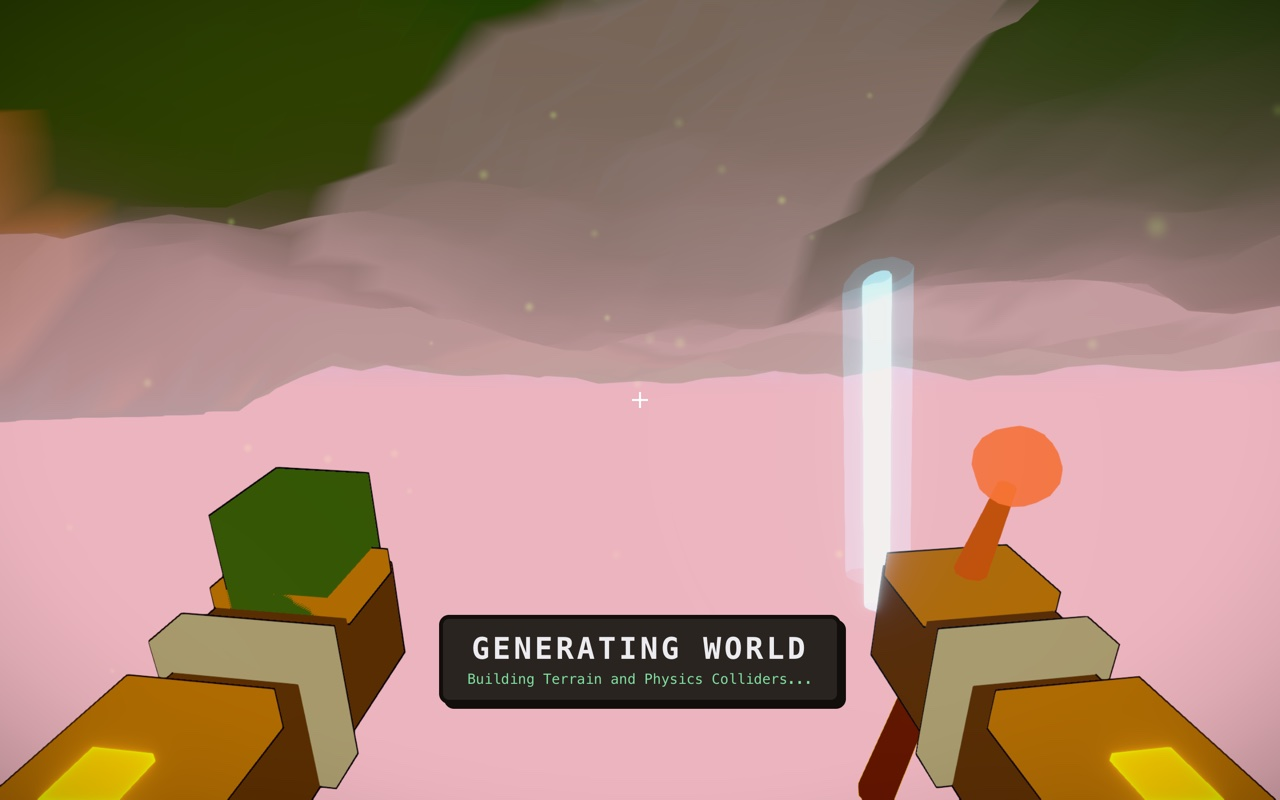
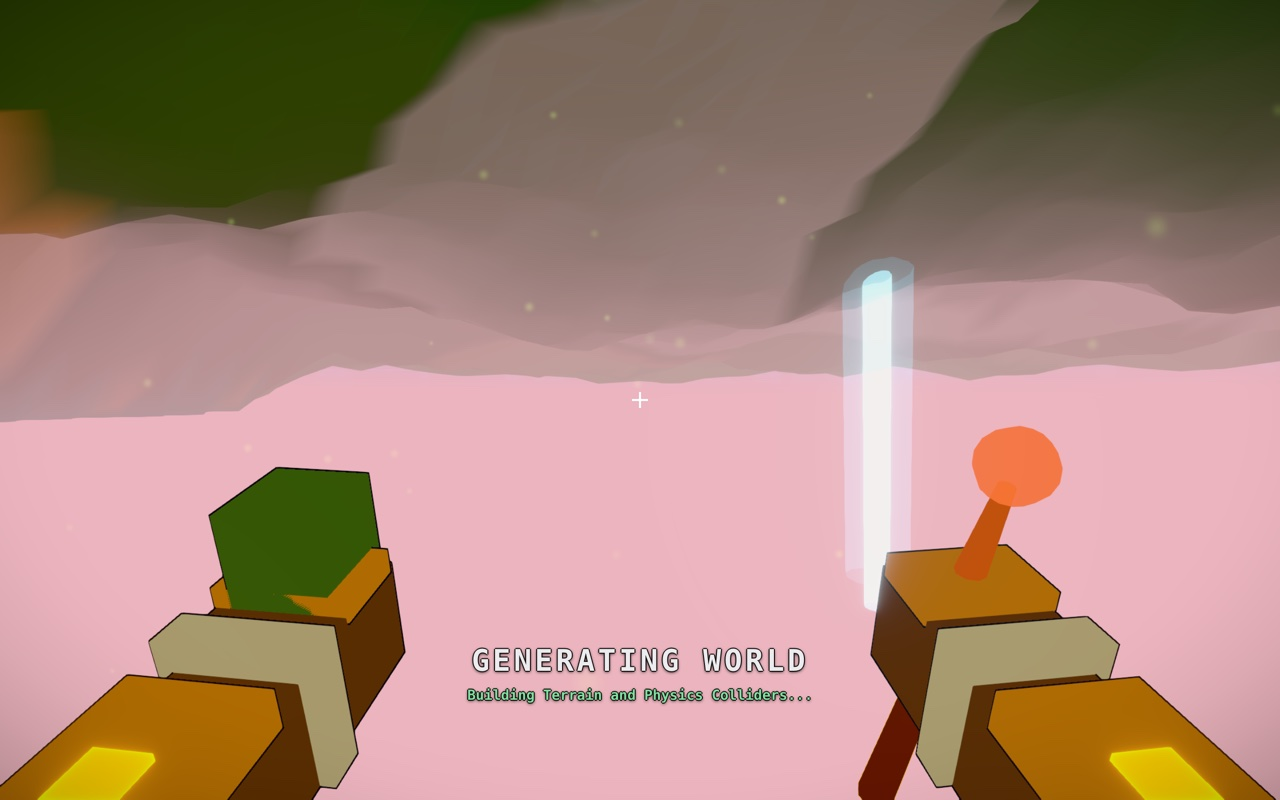
fix(app): the world-building caption takes the ink outline of on-world type instead of a plate
Look change, one line: the caption reads over the unbuilt world's bright fog by the design language's on-world outline
(ui/onWorldText.js, as the coin count and the target's nameplate use), not by a plate over the canvas.

30fef172 put the caption on a small solid plate. On the runner, under the headless shell's pointer-lock flood with the
world held (probe run 41268462804, the reworked start-before-built spec), the plated page drained worse than debfdfc2's
bare caption: the browser rose +116 to +337 MB and the longest silence was up to 26.9 s across 8 attempts, against +35
to +57 MB and at most 8.8 s across 4 for the bare caption. A covering element, even a small one, costs the drain here,
so the plate is gone. The text keeps the token colours (text-text, text-success, the subtitle semibold) and drops its
soft glows; ON_WORLD_TEXT gives each glyph a one-pixel ink outline and a soft ink shadow.

Measured on the real GPU (production build, Chromium new headless, Apple M3 Max ANGLE Metal, 1280x800 at DPR 2, Start
before the world was built, the browser's lock held): the subtitle's fill against its immediate surround reads 9.71:1
and the headline's 14.53:1 (before: 1.38:1 and 2.84:1, the soft shadows); against the fog beyond the outline they stay
1.10:1 and 1.50:1, so the outline carries the legibility. Frames and numbers:
docs/superpowers/masterpiece-2026-10/evidence/start-stall/ (caption-before.jpg, caption-after.jpg, the two crops at full
[…]

Changed region(s): [[0.3438, 0.75, 0.6875, 0.9062]]

diff --git a/frontend/src/App.jsx b/frontend/src/App.jsx
@@ -39,6 +39,7 @@ import { installSquadPersistence } from './world/squadPersistence.js';
 import { useDayNightClock } from './game/useDayNightClock';
 import { shouldOpenPauseOnUnlock } from './ui/panelState.js';
 import { requestGameLock } from './input/pointerLock.js';
+import { ON_WORLD_TEXT } from './ui/onWorldText.js';
 
 // DEV-only lazy import: in prod `import.meta.env.DEV` is statically false, so the
 // whole PrimitivesShowcase subtree (incl. showcase-scene.png + baked game-icons)
@@ -300,14 +301,13 @@ function GameApp({ experienceSystem }) {
           A still caption at the foot of the screen, not a layer over the canvas: in play the page must drain every pointer
           update the lock sends it, and on a software compositor a layer covering the live canvas left it unable to, most
           of all a translucent, blurred, animated one (DECISIONS 2026-10-31 items 370-371; tests/e2e/start-before-built.spec.js).
-          The caption sits on a small solid plate because the unbuilt world behind it is bright fog: bare text read 1.02:1
-          there (DECISIONS 2026-10-31 item 380). */}
+          The unbuilt world behind it is bright fog, where soft-shadowed text read 1.03:1, so the caption takes the ink outline
+          of type drawn on the world (ui/onWorldText.js). Not a plate: a small solid plate under it left the page draining
+          the flood worse on CI (DECISIONS 2026-10-31 item 380). */}
       {!isWorldBuilt && (
-        <div className="pointer-events-none absolute inset-x-0 bottom-24 z-50 flex justify-center">
-          <div className="flex flex-col items-center bg-panel border-chrome border-ink rounded-md shadow-elev-md px-6 py-3">
-            <h2 className="text-3xl font-bold text-text mb-1 font-mono tracking-widest">{t('world.generating')}</h2>
-            <p className="text-success font-mono text-sm">{t('world.buildingTerrain')}</p>
-          </div>
+        <div className="pointer-events-none absolute inset-x-0 bottom-24 z-50 flex flex-col items-center">
+          <h2 className="text-3xl font-bold text-text mb-2 font-mono tracking-widest" style={ON_WORLD_TEXT}>{t('world.generating')}</h2>
+          <p className="text-success font-mono text-sm font-semibold" style={ON_WORLD_TEXT}>{t('world.buildingTerrain')}</p>
         </div>
       )}
 
